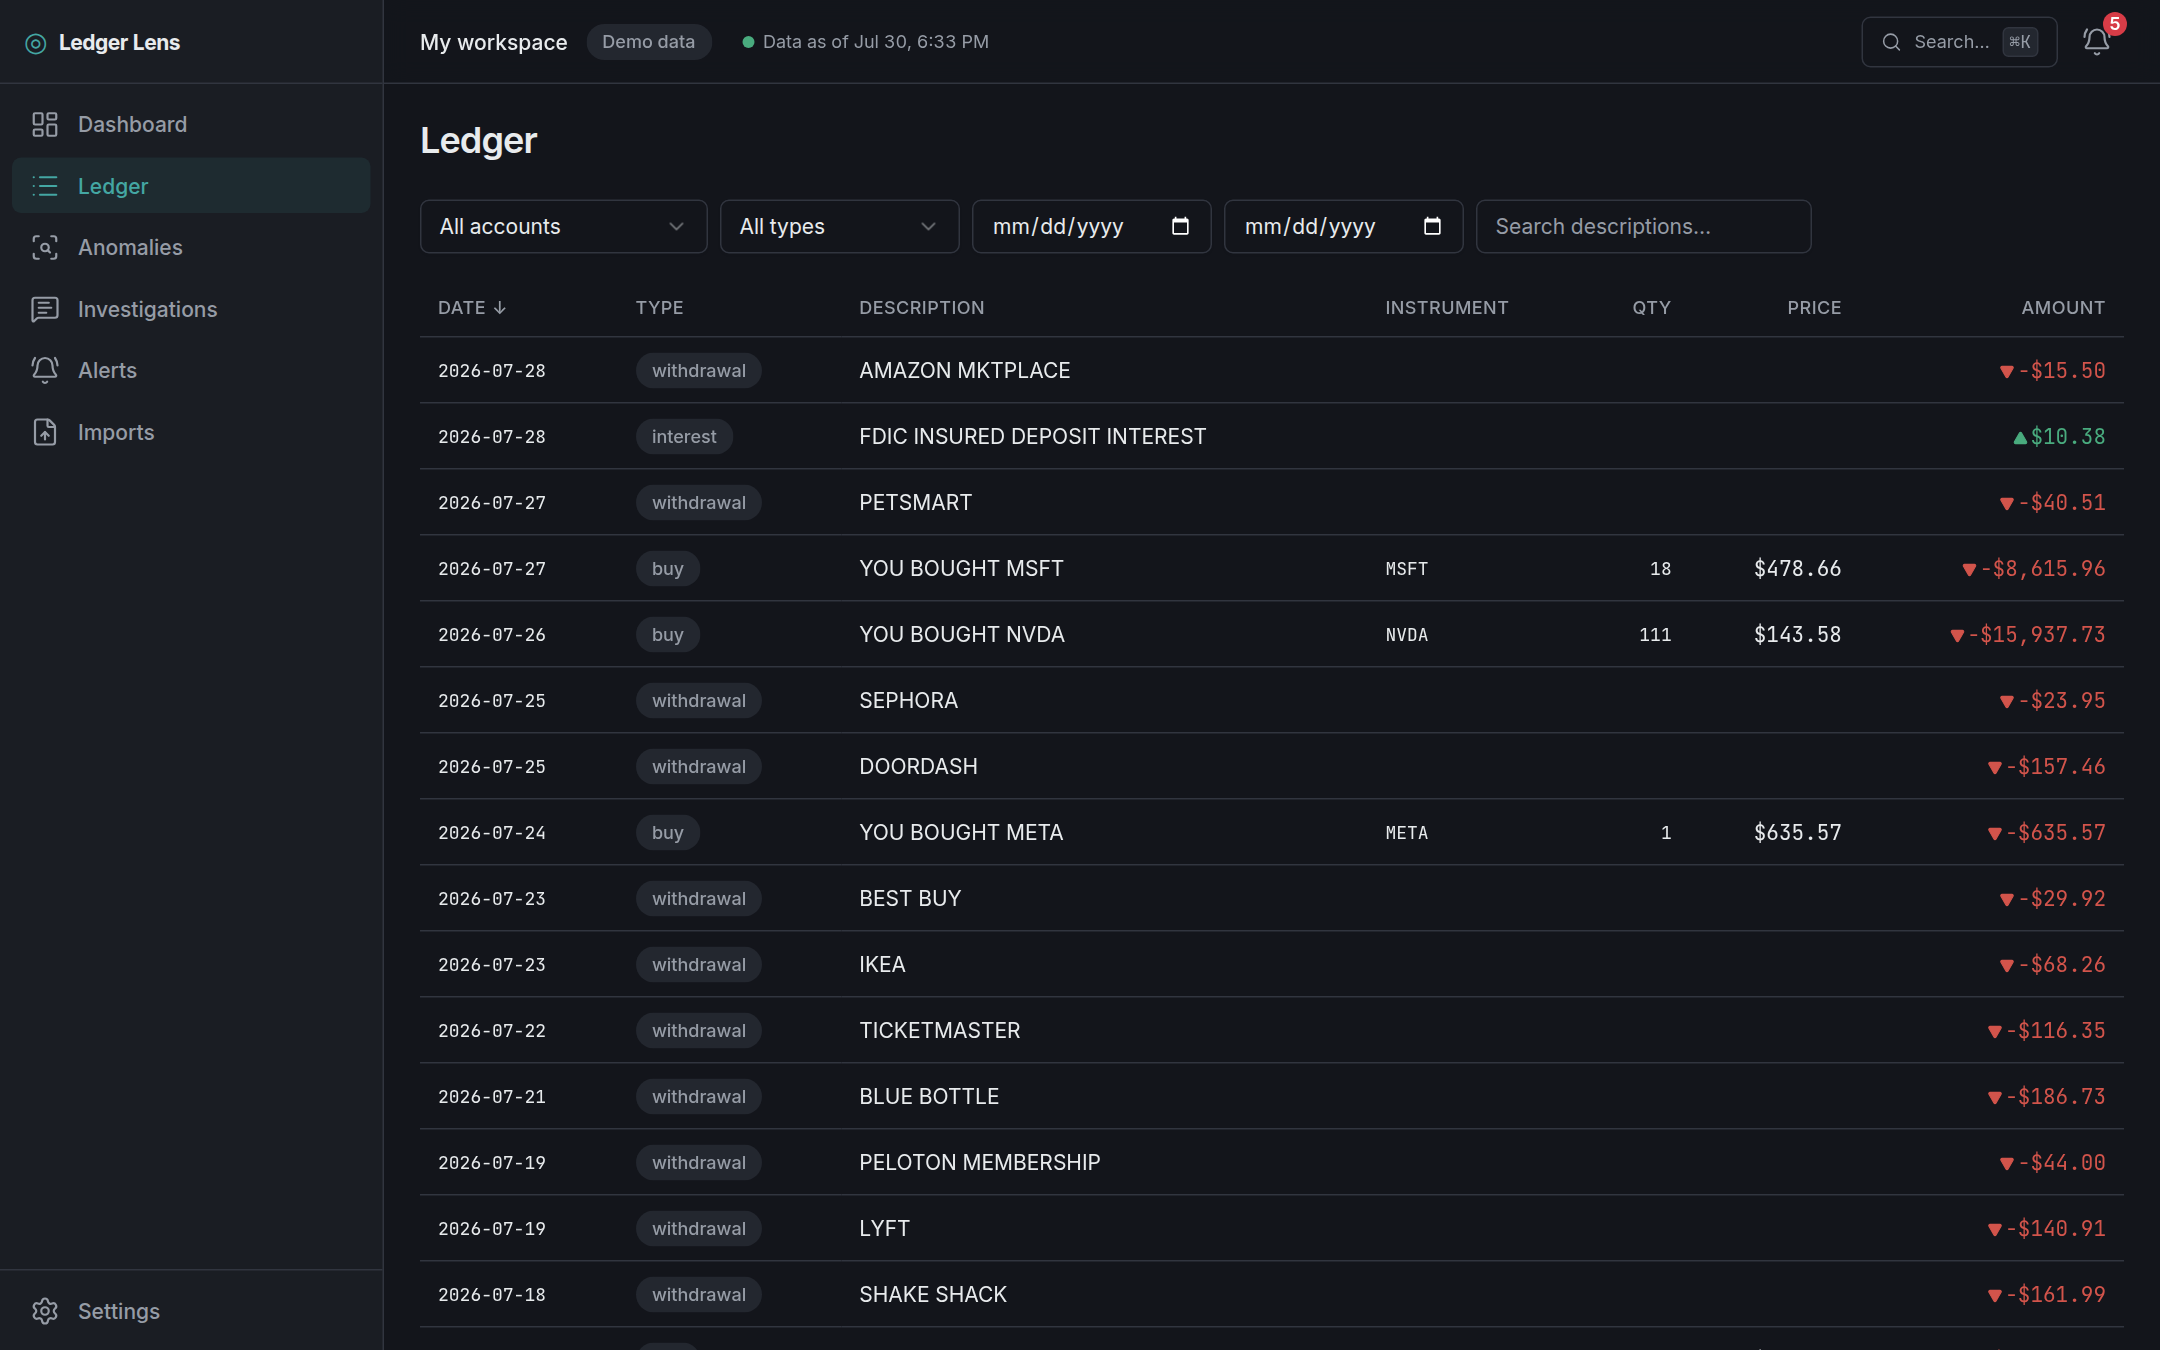
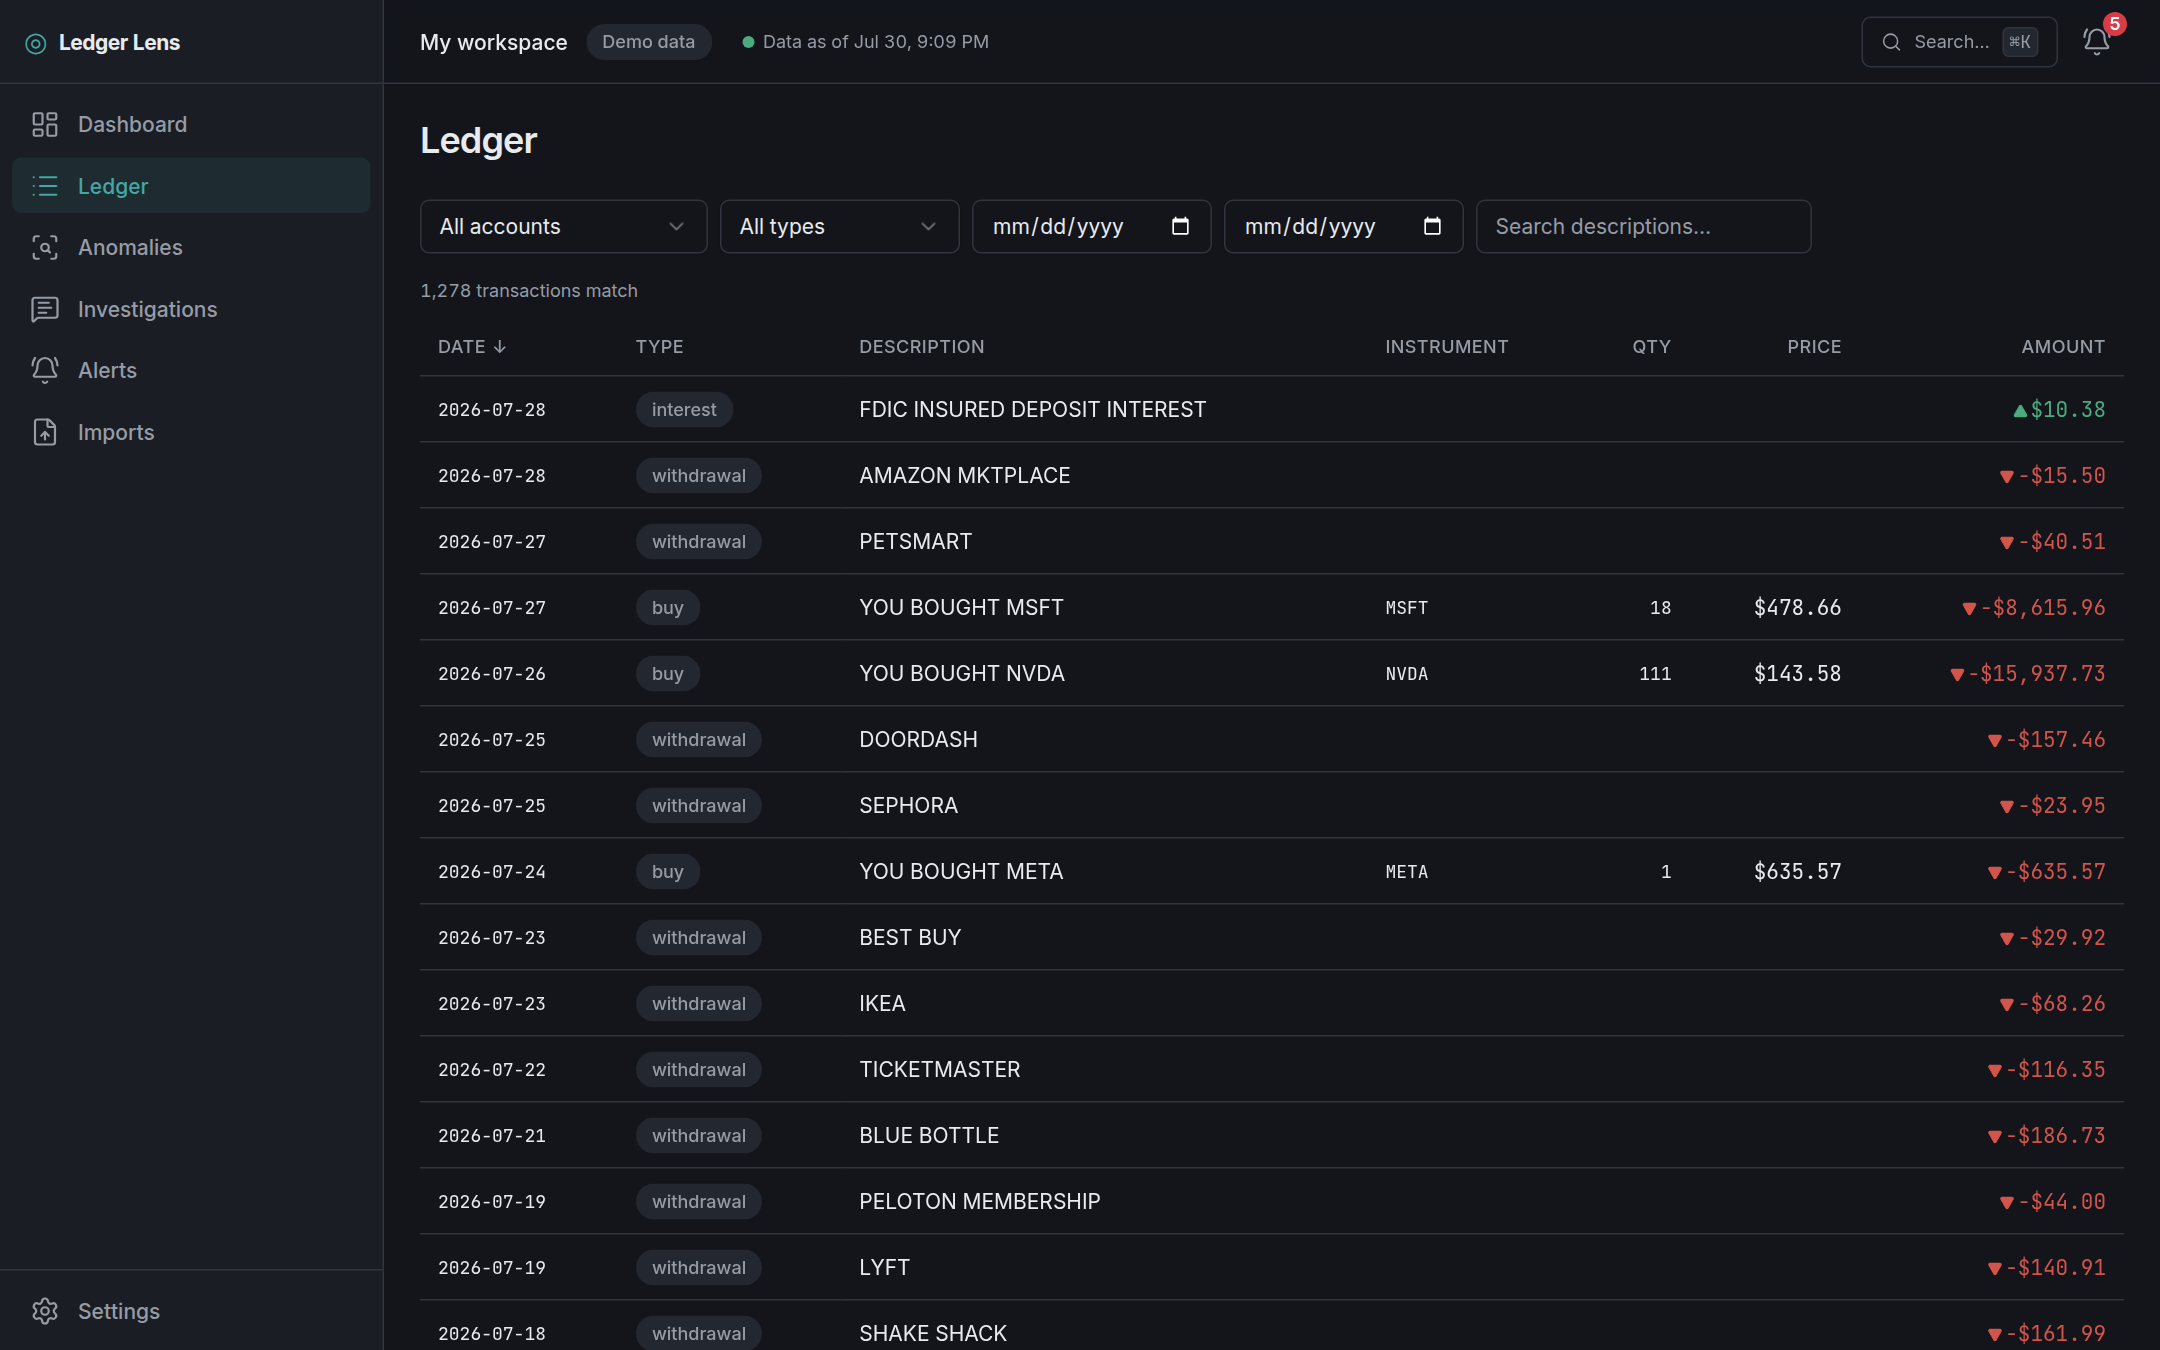
M9: total count as its own non-blocking request — §20.2 rows budget kept while §05.5 count displays progressively; refreshed README media
Claude-Session: https://claude.ai/code/session_01R4ayp5EKvMMNjtHHXCxRNN

diff --git a/src/server/services/transactions.ts b/src/server/services/transactions.ts
@@ -26,13 +26,10 @@ export function decodeCursor(cursor: string): { date: string; id: string } {
 
 type TxQuery = z.infer<typeof TransactionsQuerySchema>;
 
-export async function listTransactions(
+function buildConditions(
   ctx: Ctx,
-  db: RlsDb,
   q: TxQuery & { accountUuids?: string[]; batchUuid?: string },
-) {
-  if (!ctx.can("transactions:read")) throw new ForbiddenError();
-
+): SQL[] {
   const conditions: SQL[] = [eq(transactions.workspaceId, ctx.workspaceId)];
   if (!q.includeSuperseded) conditions.push(eq(transactions.superseded, false));
   if (q.accountUuids?.length) conditions.push(inArray(transactions.accountId, q.accountUuids));
@@ -64,6 +61,17 @@ export async function listTransactions(
       rawSql`${transactions.accountId} in (select id from accounts where workspace_id = ${ctx.workspaceId} and archived_at is null)`,
     );
   }
+  return conditions;
+}
+
+export async function listTransactions(
+  ctx: Ctx,
+  db: RlsDb,
+  q: TxQuery & { accountUuids?: string[]; batchUuid?: string },
+) {
+  if (!ctx.can("transactions:read")) throw new ForbiddenError();
+
+  const conditions = buildConditions(ctx, q);
   if (q.cursor) {
     const { date, id } = decodeCursor(q.cursor);
     conditions.push(
@@ -105,18 +113,28 @@ export async function listTransactions(
     hasMore && last && q.sort === "date"
       ? encodeCursor(last.tx.date, last.tx.id)
       : null;
+  return { rows: page, cursor };
+}
 
-  // §03.6.1/§05.5 total count: exact below 10k, "10,000+" above — the capped
-  // count keeps the query bounded (LIMIT 10001 scan, index-served).
+/**
+ * §03.6.1/§05.5 total count: exact below 10k, "10,000+" above. Separate from
+ * the page query so the filter round-trip budget (§20.2) covers rows only —
+ * the client fetches the count in parallel and fills it in progressively.
+ */
+export async function countTransactions(
+  ctx: Ctx,
+  db: RlsDb,
+  q: TxQuery & { accountUuids?: string[]; batchUuid?: string },
+): Promise<number | "10000+"> {
+  if (!ctx.can("transactions:read")) throw new ForbiddenError();
+  const conditions = buildConditions(ctx, q);
   const countRows = (await db.execute(rawSql`
     select count(*)::int as n from (
       select 1 from transactions where ${and(...conditions)} limit 10001
     ) capped
   `)) as unknown as Array<{ n: number }>;
   const n = countRows[0]?.n ?? 0;
-  const total: number | "10000+" = n > 10_000 ? "10000+" : n;
-
-  return { rows: page, cursor, total };
+  return n > 10_000 ? "10000+" : n;
 }
 
 export async function getTransaction(ctx: Ctx, db: RlsDb, id: string) {

diff --git a/src/app/api/transactions/route.ts b/src/app/api/transactions/route.ts
@@ -1,7 +1,7 @@
 import { TransactionsQuerySchema } from "@/lib/schemas/api";
 import { fromPublicId } from "@/lib/public-ids";
 import { ok, withApi } from "@/server/api/with-api";
-import { listTransactions, resolveAccountUuids } from "@/server/services/transactions";
+import { countTransactions, listTransactions, resolveAccountUuids } from "@/server/services/transactions";
 import { txToWire } from "@/server/api/wire";
 
 export const GET = withApi(
@@ -18,14 +18,21 @@ export const GET = withApi(
         )
       : undefined;
     const batchUuid = query.batchId ? fromPublicId("batch", query.batchId) : null;
-    const { rows, cursor, total } = await listTransactions(ctx, db, {
+    const args = {
       ...query,
       ...(accountUuids ? { accountUuids } : {}),
       ...(batchUuid ? { batchUuid } : {}),
-    });
+    };
+    // §20.2: the count is its own request (countOnly=1) so the filter
+    // round-trip serves rows without paying for the capped count.
+    if (query.countOnly === "1") {
+      const total = await countTransactions(ctx, db, args);
+      return ok([], { cursor: null, total });
+    }
+    const { rows, cursor } = await listTransactions(ctx, db, args);
     return ok(
       rows.map((r) => txToWire(r.tx, r.symbol)),
-      { cursor, total },
+      { cursor },
     );
   },
 );

diff --git a/src/app/app/ledger/ledger-client.tsx b/src/app/app/ledger/ledger-client.tsx
@@ -106,7 +106,14 @@ export function LedgerClient() {
     staleTime: 30_000, // §20.6 transactions pages
     placeholderData: keepPreviousData, // §20.6: filtered lists keep prior rows
   });
-  const total = query.data?.pages[0]?.meta?.total;
+  // §05.5 count is a separate, non-blocking request (§20.2 budget covers rows).
+  const { data: countData } = useQuery({
+    queryKey: qk.transactions({ ...filters, countOnly: true }),
+    queryFn: () => apiFetch<never[]>(`/transactions?${queryString}&countOnly=1`),
+    staleTime: 30_000,
+    placeholderData: keepPreviousData,
+  });
+  const total = countData?.meta?.total;
 
   const rows = query.data?.pages.flatMap((p) => p.data) ?? [];
   const activeChips = [

diff --git a/src/lib/schemas/api.ts b/src/lib/schemas/api.ts
@@ -26,6 +26,7 @@ export const TransactionsQuerySchema = z.object({
   dir: z.enum(["asc", "desc"]).default("desc"),
   accountIds: z.string().optional(), // comma-separated public ids
   batchId: z.string().optional(), // §05.9: batch detail → prefiltered ledger
+  countOnly: z.enum(["1"]).optional(), // §05.5 capped count as its own request
   from: dateStr.optional(),
   to: dateStr.optional(),
   types: z.string().optional(), // comma-separated TransactionType
